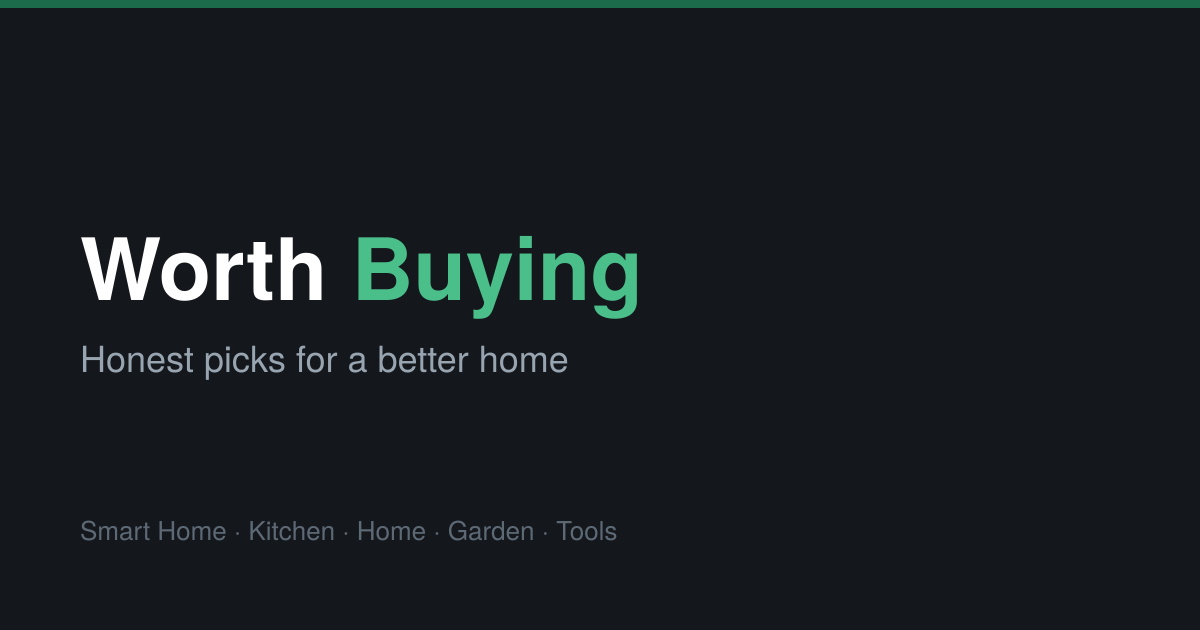
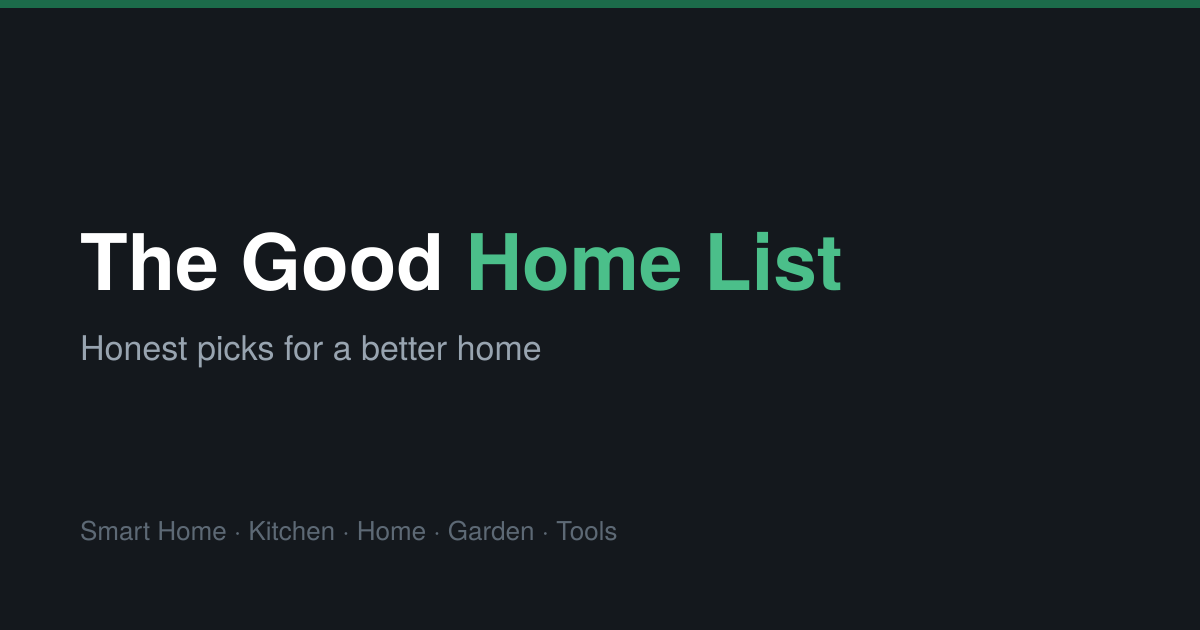
Rebrand to The Good Home List on thegoodhomelist.com
Domain wired into consts, astro config, robots.txt, CMS config and the
privacy policy contact address. Site name, header logo, RSS title and
OG image updated to match, so the brand and the domain agree.

Claude-Session: https://claude.ai/code/session_015NWdyipVb4H86tDUqrFp8o

Changed region(s): [[0.0617, 0.3619, 0.7092, 0.5127], [0.0617, 0.5429, 0.4933, 0.6032]]

diff --git a/src/consts.ts b/src/consts.ts
@@ -5,8 +5,8 @@
 
 export const SITE = {
   /** Change this to your real domain once you buy it. No trailing slash. */
-  url: 'https://worthbuyinghome.com',
-  name: 'Worth Buying',
+  url: 'https://thegoodhomelist.com',
+  name: 'The Good Home List',
   tagline: 'Honest picks for a better home',
   /** Used in meta descriptions and the homepage intro. */
   description:

diff --git a/README.md b/README.md
@@ -1,4 +1,4 @@
-# Worth Buying
+# The Good Home List
 
 An Amazon affiliate site built on Astro, deployed to Netlify, edited through Decap CMS.
 
@@ -58,7 +58,7 @@ git init
 git add .
 git commit -m "Initial commit"
 git branch -M main
-git remote add origin https://github.com/YOUR-USERNAME/worthbuying.git
+git remote add origin https://github.com/YOUR-USERNAME/thegoodhomelist.git
 git push -u origin main
 ```
 
